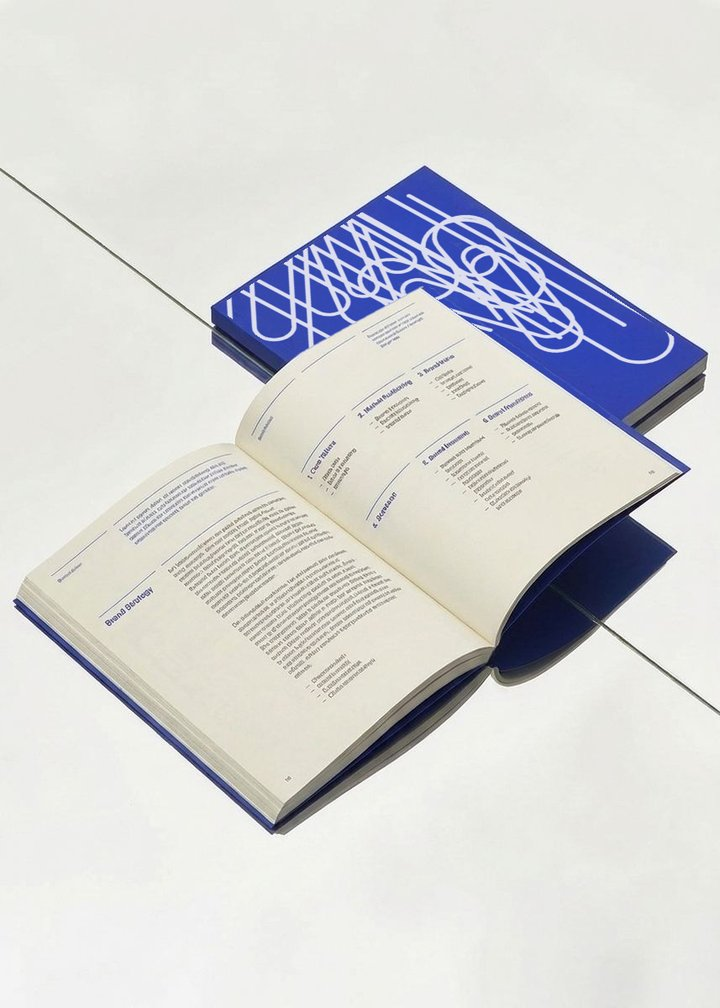
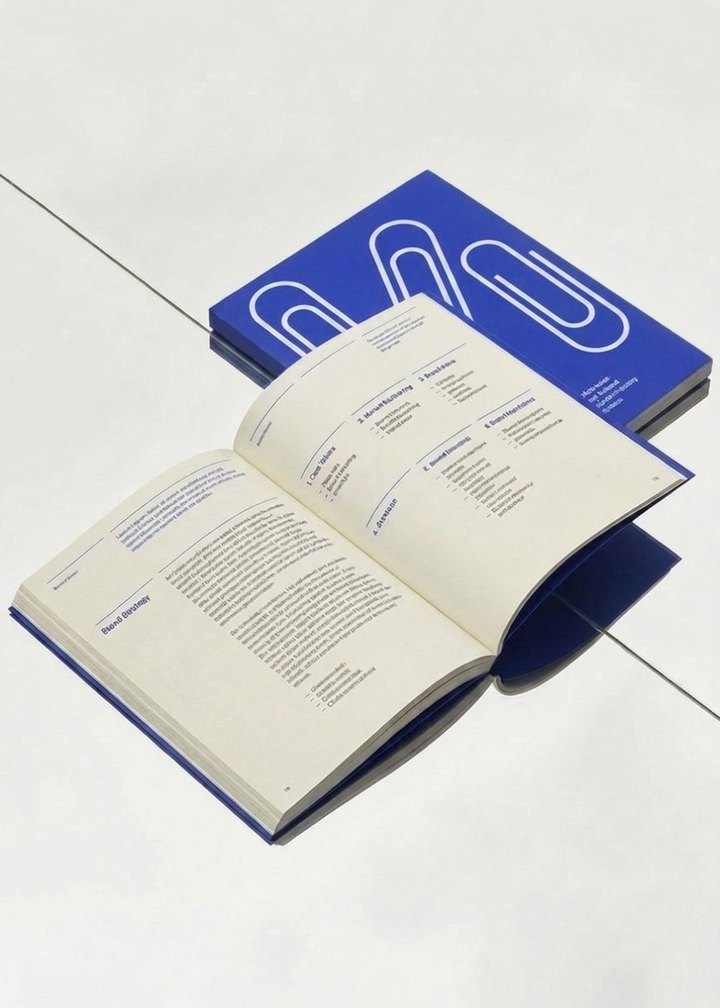
Brand Strategy image: cover redrawn with 3 large minimalist paper clips (Gemini edit, rest of photo unchanged); frame shifted up so the whole cover shows; both dithers now honour CSS object-position

diff --git a/dither-hover.js b/dither-hover.js
@@ -93,6 +93,7 @@ uniform float uScaleResolution;
 uniform float uOpacity;
 uniform float uZoom;
 uniform vec2 uZoomCenter;
+uniform vec2 uPos;
 uniform float uPixelSize;
 uniform float uPixelSizeMultiplier;
 uniform float uTime;
@@ -216,11 +217,11 @@ void main() {
   if (textureAspect > planeAspect) {
     float s = planeAspect / textureAspect;
     scale  = vec2(s, 1.0);
-    offset = vec2((1.0 - s) * 0.5, 0.0);
+    offset = vec2((1.0 - s) * uPos.x, 0.0);
   } else {
     float s = textureAspect / planeAspect;
     scale  = vec2(1.0, s);
-    offset = vec2(0.0, (1.0 - s) * 0.5);
+    offset = vec2(0.0, (1.0 - s) * (1.0 - uPos.y));
   }
 
   // zoom around uZoomCenter (default (0,1) = top-left, as before)
@@ -481,6 +482,7 @@ export function initDitherHover(options = {}) {
         uOpacity: { value: 0 },
         uZoom: { value: PARAMS.zoom },
         uZoomCenter: { value: new THREE.Vector2(0, 1) },
+        uPos: { value: new THREE.Vector2(0.5, 0.5) },
         uPixelSize: { value: PARAMS.enterPixelSize },
         uPixelSizeMultiplier: { value: PARAMS.pixelSizeMultiplier },
         uTime: { value: 0 },
@@ -589,6 +591,9 @@ export function initDitherHover(options = {}) {
     // optional per-element zoom: data-zoom="1.4" data-zoom-center="0.28,0.62" (x,y from top-left)
     const z = parseFloat(m.img.dataset.zoom);
     m.material.uniforms.uZoom.value = z > 0 ? z : PARAMS.zoom;
+    // honour the img's CSS object-position (percentages), like object-fit: cover would
+    const op = getComputedStyle(m.img).objectPosition.split(' ').map(v => v.endsWith('%') ? parseFloat(v) / 100 : 0.5);
+    m.material.uniforms.uPos.value.set(op[0] ?? 0.5, op[1] ?? 0.5);
     const c = (m.img.dataset.zoomCenter || '').split(',').map(Number);
     if (c.length === 2 && !c.some(isNaN)) m.material.uniforms.uZoomCenter.value.set(c[0], 1 - c[1]);
   }

diff --git a/dither-touch.js b/dither-touch.js
@@ -164,8 +164,11 @@ export function initTouchDither({ colorDark = '#15209f', colorLight = '#f0ede5',
     item.el.style.opacity = '0';
     const sw = item.isVideo ? source.videoWidth : source.naturalWidth, shh = item.isVideo ? source.videoHeight : source.naturalHeight;
     const ta = sw / shh, pa = item.w / item.h;
-    if (ta > pa) { gl.uniform2f(u.scale, pa / ta, 1); gl.uniform2f(u.offset, (1 - pa / ta) / 2, 0); }
-    else { gl.uniform2f(u.scale, 1, ta / pa); gl.uniform2f(u.offset, 0, (1 - ta / pa) / 2); }
+    // honour the img's CSS object-position (percentages), like object-fit: cover would
+    const op = getComputedStyle(item.el).objectPosition.split(' ').map(v => v.endsWith('%') ? parseFloat(v) / 100 : 0.5);
+    const px = op[0] ?? 0.5, py = op[1] ?? 0.5;
+    if (ta > pa) { gl.uniform2f(u.scale, pa / ta, 1); gl.uniform2f(u.offset, (1 - pa / ta) * px, 0); }
+    else { gl.uniform2f(u.scale, 1, ta / pa); gl.uniform2f(u.offset, 0, (1 - ta / pa) * py); }
     if (!item.entered) { item.entered = true; item.enterStart = t; }
     const p = easeOut(Math.min((t - item.enterStart) / ENTER, 1));
     gl.uniform2f(u.res, item.w, item.h);

diff --git a/index.html b/index.html
@@ -447,6 +447,7 @@ html.drawer-open { overflow: hidden; }
 /* ============ Services ============ */
 .services { background: #f0ede5; color: #15209f; padding-top: calc(var(--s5) / 2); padding-bottom: calc(var(--s5) / 2); } /* heading sits close to its list */
 /* same type as the 'Strategy, Creative…' and 'We're ready…' headings */
+.service__media img[src*="brand-strategy"] { object-position: 50% 12%; } /* keep the whole book cover (paper clips) in the 4:3 frame */
 .services__title { padding-bottom: var(--s2); font-size: clamp(20px, 1.8vw, 34px); line-height: 1.2; letter-spacing: -0.02em; } /* same size as the audit panel text above */
 .service {
   display: grid;
